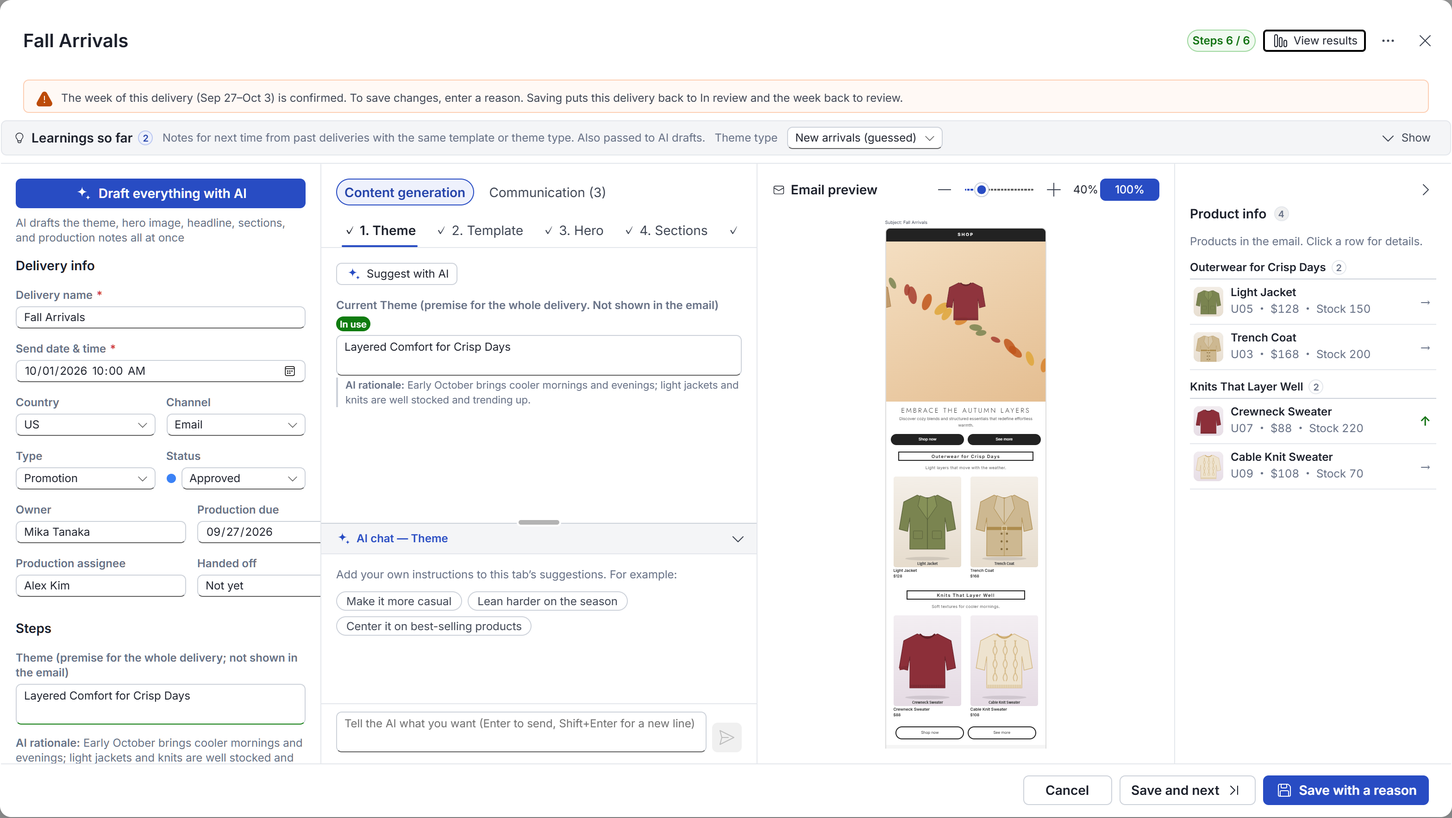
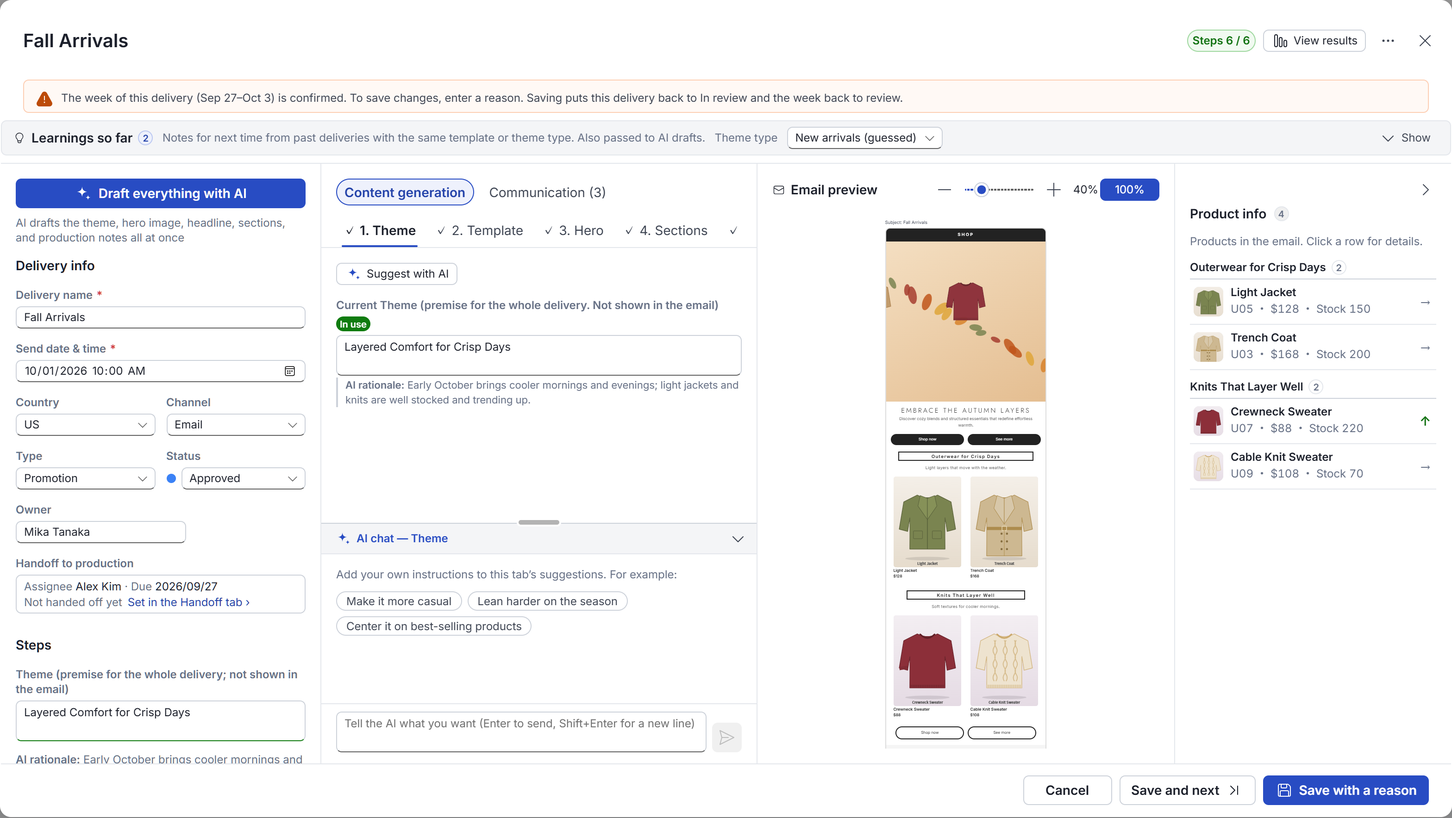
feat: 制作の担当・締め切り・引き継ぎ済みの入力を「引き継ぎ」のタブ 1 か所に(FLOWS の C-3)
- 引き継ぎのタブで、担当者に加えて締め切りも入力する
- 左の配信情報は、担当・締め切り・引き継ぎ済みの要約を表示するだけ。押すと「やり取り → 引き継ぎ」のタブが開く(ContentPane.tabRequest)
- FEATURES・FLOWS・BACKLOG(X17)・台帳を更新し、配信カードと引き継ぎのスクリーンショットを撮り直す

Changed region(s): [[0.0, 0.6844, 0.2188, 0.9333], [0.875, 0.0311, 0.9375, 0.0622], [0.125, 0.6222, 0.1875, 0.6533]]

diff --git a/src/CardDetail.tsx b/src/CardDetail.tsx
@@ -31,7 +31,7 @@ import type { DeliveryCard } from './models/deliveryCards'
 import { DeliveryProductsService } from './data/deliveryProducts'
 import type { Product } from './models/products'
 import type { HeroImage } from './models/heroImages'
-import { ContentPane } from './ContentPane'
+import { ContentPane, type TopTab } from './ContentPane'
 import { Preview } from './Preview'
 import { DEFAULT_PUSH_TEMPLATE, DEFAULT_TEMPLATE, TEMPLATE_VALUES, channelOf, sectionIndexAt, sectionsOf, templateFromValue, type EmailTemplateId, type TemplateChannel } from './templates'
 import { parsePushLink, tapComplete, type PushLink } from './pushLink'
@@ -344,6 +344,28 @@ const useStyles = makeStyles({
   sectionHead: { marginTop: '12px' },
   previewHead: { display: 'flex', alignItems: 'center', columnGap: '6px', flexWrap: 'wrap', minWidth: 0 },
   twoCol: { display: 'grid', gridTemplateColumns: '1fr 1fr', columnGap: '12px', rowGap: '12px' },
+  // 左の「制作への引き継ぎ」(表示だけ。押すと、やり取りの「引き継ぎ」のタブが開く)
+  handoffField: { gridColumn: '1 / -1' },
+  handoffSummary: {
+    display: 'flex',
+    flexWrap: 'wrap',
+    alignItems: 'center',
+    columnGap: '12px',
+    rowGap: '2px',
+    width: '100%',
+    minHeight: '32px',
+    padding: '4px 8px',
+    textAlign: 'left',
+    fontFamily: 'inherit',
+    fontSize: tokens.fontSizeBase200,
+    color: tokens.colorNeutralForeground1,
+    border: `1px solid ${tokens.colorNeutralStroke1}`,
+    borderRadius: tokens.borderRadiusMedium,
+    backgroundColor: tokens.colorNeutralBackground1,
+    cursor: 'pointer',
+    ':hover': { backgroundColor: tokens.colorNeutralBackground1Hover },
+  },
+  handoffLink: { marginLeft: '6px', color: tokens.colorBrandForegroundLink, whiteSpace: 'nowrap' },
   statusRow: { display: 'flex', alignItems: 'center', columnGap: '6px' },
   dot: { width: '10px', height: '10px', borderRadius: '50%', flexShrink: 0 },
   grow: { flexGrow: 1 },
@@ -417,6 +439,8 @@ export function CardDetail({ card, defaults, products, heroes, otherThemes, owne
   const [links, setLinks] = useState<Links>(() => parseLinks(card?.links))
   // リンク先のタブを開いているか・設定の欄で選んでいる場所(プレビューに、番号と枠を重ねる。W12)
   const [linksTab, setLinksTab] = useState(false)
+  // 中央のタブを開く頼み(左の「制作への引き継ぎ」を押すと、やり取りの「引き継ぎ」のタブを開く)
+  const [tabRequest, setTabRequest] = useState<{ tab: TopTab; seq: number } | undefined>(undefined)
   const [linkFocus, setLinkFocus] = useState<string | null>(null)
   const surfaceRef = useRef<HTMLDivElement>(null)
   const [size, setSize] = useState<DialogSize | null>(() => loadPref<DialogSize | null>(SIZE_KEY, null))
@@ -1146,19 +1170,24 @@ export function CardDetail({ card, defaults, products, heroes, otherThemes, owne
                     {owners.map((o) => <option key={o} value={o} />)}
                   </datalist>
                 </Field>
-                <Field label={t('制作の締め切り', 'Production due')}>
-                  <Input size="small" type="date" value={form.productionDue} onChange={(_, d) => set('productionDue')(d.value)} />
-                </Field>
-                {/* 制作の担当者は、中央の「⑥ 制作指示」と同じ値。引き継ぐ操作は、制作指示とリンク先を確かめてから行うよう、中央だけに置く */}
-                <Field label={t('制作の担当者', 'Production assignee')}>
-                  <Input size="small" list="ccp-owners" value={form.productionOwner} onChange={(_, d) => set('productionOwner')(d.value)} />
-                </Field>
-                <Field label={t('制作への引き継ぎ', 'Handed off')}>
-                  <Input
-                    size="small"
-                    readOnly
-                    value={form.handedOffAt ? new Date(form.handedOffAt).toLocaleString(locale(), { month: '2-digit', day: '2-digit', hour: '2-digit', minute: '2-digit' }) : t('まだ', 'Not yet')}
-                  />
+                {/* 制作の担当者・締め切り・引き継ぎ済みは、中央の「やり取り → 引き継ぎ」だけで決める(2 か所で入力しない。FLOWS の C-3)。ここは表示だけで、押すとそのタブが開く */}
+                <Field label={t('制作への引き継ぎ', 'Handoff to production')} className={styles.handoffField}>
+                  <button type="button" className={styles.handoffSummary} onClick={() => setTabRequest((r) => ({ tab: 'handoff', seq: (r?.seq ?? 0) + 1 }))} title={t('引き継ぎのタブで決める', 'Set in the Handoff tab')}>
+                    <span>
+                      <span className={styles.caption}>{t('担当 ', 'Assignee ')}</span>
+                      {form.productionOwner.trim() || <span className={styles.caption}>{t('(未設定)', '(not set)')}</span>}
+                      <span className={styles.caption}>{t(' ・ 締め切り ', ' · Due ')}</span>
+                      {form.productionDue ? form.productionDue.replace(/-/g, '/') : <span className={styles.caption}>{t('(未設定)', '(not set)')}</span>}
+                    </span>
+                    <span>
+                      {form.handedOffAt ? (
+                        <span className={styles.success}>{t('引き継ぎ済み ', 'Handed off ')}{new Date(form.handedOffAt).toLocaleString(locale(), { month: '2-digit', day: '2-digit', hour: '2-digit', minute: '2-digit' })}</span>
+                      ) : (
+                        <span className={styles.caption}>{t('まだ引き継いでいない', 'Not handed off yet')}</span>
+                      )}
+                      <span className={styles.handoffLink}>{t('引き継ぎのタブで決める ›', 'Set in the Handoff tab ›')}</span>
+                    </span>
+                  </button>
                 </Field>
               </div>
               <Text weight="semibold" size={300} className={styles.sectionHead}>{t('工程', 'Steps')}</Text>
@@ -1240,6 +1269,7 @@ export function CardDetail({ card, defaults, products, heroes, otherThemes, owne
                 onLinks={setLinks}
                 handoff={{ productionOwner: form.productionOwner, handedOffAt: form.handedOffAt, productionDue: form.productionDue }}
                 onHandoff={(k, v) => setForm((f) => ({ ...f, [k]: v }))}
+                tabRequest={tabRequest}
                 people={owners}
                 cardId={card?.id}
                 owner={form.owner}

diff --git a/src/ContentPane.tsx b/src/ContentPane.tsx
@@ -56,7 +56,7 @@ import { CardNotesService } from './data/cardNotes'
 import { linkSlots, linksComplete, type Links } from './links'
 
 // handoff・tasks・comments は工程ではない(「工程 n / 6」に数えない)。やり取りの面に置く
-type TopTab = 'theme' | 'template' | 'hero' | 'sections' | 'instructions' | 'links' | 'handoff' | 'tasks' | 'comments' | 'notice' | 'message' | 'timing'
+export type TopTab = 'theme' | 'template' | 'hero' | 'sections' | 'instructions' | 'links' | 'handoff' | 'tasks' | 'comments' | 'notice' | 'message' | 'timing'
 /** 中ペインの 2 つの面。make = コンテンツを作る工程(AI チャットを使う)、talk = 人とのやり取り(引き継ぎ・タスク・コメント。AI チャットは使わない) */
 type Area = 'make' | 'talk'
 const TALK_TABS: TopTab[] = ['handoff', 'tasks', 'comments']
@@ -105,9 +105,11 @@ interface Props {
   onLinkFocus?: (key: string | null) => void
   /** 配信のページの名前(リンク先の既定値と、計測用のパラメーターに使う) */
   campaign: string
-  /** 制作への引き継ぎ(制作指示のタブ) */
+  /** 制作への引き継ぎ(やり取りの「引き継ぎ」のタブ。担当・締め切り・引き継ぎ済みは、ここだけで決める) */
   handoff: { productionOwner: string; handedOffAt: string; productionDue: string }
-  onHandoff: (key: 'productionOwner' | 'handedOffAt', value: string) => void
+  onHandoff: (key: 'productionOwner' | 'handedOffAt' | 'productionDue', value: string) => void
+  /** 外(左の配信情報など)から、タブを開く頼み。seq が変わるたびに開く */
+  tabRequest?: { tab: TopTab; seq: number }
   /** これまでに入れた人の名前(入力の候補) */
   people: string[]
   /** 保存済みの配信カードの ID(新規作成中は undefined) */
@@ -1106,6 +1108,13 @@ export function ContentPane(props: Props) {
     setTab(next)
     setLastTab((prev) => ({ ...prev, [TALK_TABS.includes(next) ? 'talk' : 'make']: next }))
   }
+  // 外からのタブを開く頼み(左の配信情報の「引き継ぎのタブで決める」など)。seq が変わったときだけ開く
+  const { tabRequest } = props
+  useEffect(() => {
+    // eslint-disable-next-line react-hooks/set-state-in-effect
+    if (tabRequest && tabRequest.seq > 0) openTab(tabRequest.tab)
+    // eslint-disable-next-line react-hooks/exhaustive-deps
+  }, [tabRequest?.seq])
   // リンク先のタブを開いている間だけ、プレビューにリンクの場所の番号を出す(タブを離れたら、選んでいた欄も外す)
   const { onLinksTab, onLinkFocus } = props
   useEffect(() => {
@@ -1323,6 +1332,7 @@ export function ContentPane(props: Props) {
           handedOffAt={props.handoff.handedOffAt}
           onHandedOffAt={(v) => props.onHandoff('handedOffAt', v)}
           productionDue={props.handoff.productionDue}
+          onProductionDue={(v) => props.onHandoff('productionDue', v)}
           remaining={pr.remaining}
           people={props.people}
         />

diff --git a/src/HandoffPanel.tsx b/src/HandoffPanel.tsx
@@ -19,8 +19,9 @@ interface Props {
   /** 引き継いだ日時(ISO。空は、まだ引き継いでいない) */
   handedOffAt: string
   onHandedOffAt: (v: string) => void
-  /** 制作の締め切り(YYYY-MM-DD。左の配信情報で決める) */
+  /** 制作の締め切り(YYYY-MM-DD) */
   productionDue: string
+  onProductionDue: (v: string) => void
   /** 終わっていない工程(引き継ぐ前の注意に出す) */
   remaining: string[]
   /** これまでに入れた名前(入力の候補) */
@@ -28,25 +29,20 @@ interface Props {
 }
 
 /**
- * 制作への引き継ぎ。「制作に引き継ぐ」で、引き継いだ日時を残す(保存で確定する)。
+ * 制作への引き継ぎ。制作の担当者・締め切りは、ここだけで決める(左の配信情報は表示だけ。FLOWS の C-3)。
+ * 「制作に引き継ぐ」で、引き継いだ日時を残す(保存で確定する)。
  * 制作担当への実際の通知(メールなど)は、まだ行わない(バックログ P3 の後)。
  */
-export function HandoffPanel({ productionOwner, onProductionOwner, handedOffAt, onHandedOffAt, productionDue, remaining, people }: Props) {
+export function HandoffPanel({ productionOwner, onProductionOwner, handedOffAt, onHandedOffAt, productionDue, onProductionDue, remaining, people }: Props) {
   const styles = useStyles()
   const t = useT()
-  const due = productionDue
-    ? (() => {
-        const [y, m, d] = productionDue.split('-').map(Number)
-        return new Date(y, m - 1, d).toLocaleDateString(locale(), { year: 'numeric', month: '2-digit', day: '2-digit' })
-      })()
-    : ''
 
   return (
     <div className={styles.root}>
       <div>
         <div className={styles.head}>{t('制作への引き継ぎ', 'Handoff to production')}</div>
         <div className={styles.caption}>
-          {t('制作の担当者を決めて「制作に引き継ぐ」を押し、保存します。締め切りは、左の配信情報で決めます。', 'Choose the production assignee, press “Hand off to production”, then save. The due date is set in Delivery info on the left.')}
+          {t('制作の担当者と締め切りを決めて「制作に引き継ぐ」を押し、保存します。左の配信情報には、ここで決めた内容が出ます。', 'Choose the production assignee and due date, press “Hand off to production”, then save. Delivery info on the left shows what you set here.')}
         </div>
       </div>
       <div className={styles.row}>
@@ -57,7 +53,7 @@ export function HandoffPanel({ productionOwner, onProductionOwner, handedOffAt, 
           </datalist>
         </Field>
         <Field label={t('制作の締め切り', 'Production due')} size="small">
-          <Input size="small" readOnly value={due || t('(未設定)', '(not set)')} />
+          <Input size="small" type="date" value={productionDue} onChange={(_, d) => onProductionDue(d.value)} />
         </Field>
       </div>
       {handedOffAt ? (

diff --git a/scripts/feature-reasons.py b/scripts/feature-reasons.py
@@ -77,7 +77,7 @@ F = [
  ('F63','一覧','締め切りの警告(配信日が近いのに未着手の配信に印)','近い配信の作業の漏れを、早めに気づくため','【文書】BACKLOG L4',False),
  ('F64','制作','担当者と、制作の締め切り(一覧・カレンダーにも出す)','誰が、いつまでに作るかを、配信ごとにはっきりさせるため','【文書】BACKLOG P1',False),
  ('F65','制作','リンク先を工程 ⑤ にする。メールは URL と計測用のパラメーター(メイン画像・ボタンごと)。プレビューで、リンク先の場所と設定を見せる。すべての場所に行き先がそろったら完了','制作に正しいリンク先を渡し、設定の漏れを、見た目の上で確かめるため。決め忘れが事故(違うページに飛ぶ)につながるので、工程として数える','【要望】リンク先を分かりやすく、リンク先を独立した工程にしたい',False),
- ('F66','制作','制作への引き継ぎ(制作の担当・期日・引き継ぎ済み)','企画から制作に渡したことを、はっきり残すため','【文書】BACKLOG P3',False),
+ ('F66','制作','制作への引き継ぎ(制作の担当・締め切り・引き継ぎ済み。入力は「引き継ぎ」のタブだけ。左の配信情報は要約の表示で、押すとそのタブが開く)','企画から制作に渡したことを、はっきり残すため。同じ値を 2 か所で入力させないため','【文書】BACKLOG P3、FLOWS C-3',False),
  ('F67','制作','質問と返信(誰からでも、誰にでも。宛先・返信する人を選ぶ)、やり取りから AI がタスクの案を出し、採用したものを管理する','配信ごとのやり取りと、そこから生まれた作業を、漏れなく追うため','【要望】やり取りからタスクを作りたい',False),
  ('F68','週','週の表示(1 週間を縮小プレビューつきで並べる。見方は「商品」「進み具合」)','レビューは週の単位で行うので、1 週間の配信をまとめて見比べるため','【文書】BACKLOG W1(ワイヤーフレーム 08)',False),
  ('F69','週','週の状態(下書き / レビュー中 / 確定)と、「レビューに出す」「週を確定」','週の計画の段階を、全員が同じように分かり、まとめて進めるため','【文書】BACKLOG W2',False),

diff --git a/docs/FEATURE_REASONS.md b/docs/FEATURE_REASONS.md
@@ -89,7 +89,7 @@
 | F63 | 一覧 | 締め切りの警告(配信日が近いのに未着手の配信に印) | 近い配信の作業の漏れを、早めに気づくため | 【文書】BACKLOG L4 | 1-確7 |
 | F64 | 制作 | 担当者と、制作の締め切り(一覧・カレンダーにも出す) | 誰が、いつまでに作るかを、配信ごとにはっきりさせるため | 【文書】BACKLOG P1 | 3-作6, 3-作7 |
 | F65 | 制作 | リンク先を工程 ⑤ にする。メールは URL と計測用のパラメーター(メイン画像・ボタンごと)。プレビューで、リンク先の場所と設定を見せる。すべての場所に行き先がそろったら完了 | 制作に正しいリンク先を渡し、設定の漏れを、見た目の上で確かめるため。決め忘れが事故(違うページに飛ぶ)につながるので、工程として数える | 【要望】リンク先を分かりやすく、リンク先を独立した工程にしたい | 19-作5 |
-| F66 | 制作 | 制作への引き継ぎ(制作の担当・期日・引き継ぎ済み) | 企画から制作に渡したことを、はっきり残すため | 【文書】BACKLOG P3 | 19-作3 |
+| F66 | 制作 | 制作への引き継ぎ(制作の担当・締め切り・引き継ぎ済み。入力は「引き継ぎ」のタブだけ。左の配信情報は要約の表示で、押すとそのタブが開く) | 企画から制作に渡したことを、はっきり残すため。同じ値を 2 か所で入力させないため | 【文書】BACKLOG P3、FLOWS C-3 | 19-作3 |
 | F67 | 制作 | 質問と返信(誰からでも、誰にでも。宛先・返信する人を選ぶ)、やり取りから AI がタスクの案を出し、採用したものを管理する | 配信ごとのやり取りと、そこから生まれた作業を、漏れなく追うため | 【要望】やり取りからタスクを作りたい | 19-確3 |
 | F68 | 週 | 週の表示(1 週間を縮小プレビューつきで並べる。見方は「商品」「進み具合」) | レビューは週の単位で行うので、1 週間の配信をまとめて見比べるため | 【文書】BACKLOG W1(ワイヤーフレーム 08) | 1-作8, 2-作2 |
 | F69 | 週 | 週の状態(下書き / レビュー中 / 確定)と、「レビューに出す」「週を確定」 | 週の計画の段階を、全員が同じように分かり、まとめて進めるため | 【文書】BACKLOG W2 | 2-作1, 2-作3, 2-作6 |
@@ -379,7 +379,7 @@
 |---|---|---|---|
 | 19-作1 | ✅ | AI に、制作指示の案を出してもらう(3 案。方針の切り口つき) | F61 制作指示の案(3 案・切り口つき)・採用 |
 | 19-作2 | ✅ | 案を採用する / 書き換える | F61 制作指示の案(3 案・切り口つき)・採用 |
-| 19-作3 | 🟡 | 制作担当に、引き継いだことを知らせる(担当の割り当て・通知) | F66 制作への引き継ぎ(制作の担当・期日・引き継ぎ済み)<br>F101 絞り込みの「担当」(企画・制作の担当。質問の宛先・質問した人・タスクの担当も含む) |
+| 19-作3 | 🟡 | 制作担当に、引き継いだことを知らせる(担当の割り当て・通知) | F66 制作への引き継ぎ(制作の担当・締め切り・引き継ぎ済み。入力は「引き継ぎ」のタブだけ。左の配信情報は要約の表示で、押すとそのタブが開く)<br>F101 絞り込みの「担当」(企画・制作の担当。質問の宛先・質問した人・タスクの担当も含む) |
 | 19-作5 | ✅ | 各ボタン・画像の、実際のリンク先 URL を、配信ごとに決める | F65 リンク先を工程 ⑤ にする。メールは URL と計測用のパラメーター(メイン画像・ボタンごと)。プレビューで、リンク先の場所と設定を見せる。すべての場所に行き先がそろったら完了 |
 | 19-確1 | ✅ | 制作指示の方針の切り口 | F61 制作指示の案(3 案・切り口つき)・採用 |
 | 19-確2 | ✅ | 制作に必要な商品情報(価格、説明、画像、売上・在庫の状況) | F47 商品の詳細(直近 4 週の販売数・在庫の週数・12 週の売上、週ごとのグラフ、MD の方針・販促計画、基本情報) |

diff --git a/docs/FEATURES.md b/docs/FEATURES.md
@@ -66,7 +66,7 @@
 
 | ペイン | 内容 |
 |---|---|
-| ① 左: 配信情報 | 青い大きなボタン「**すべてAIで下書き**」。配信名、配信日時、国、チャネル、種別、ステータス、担当者、制作の締め切り、制作の担当者。「工程」として、テーマ・ヘッドライン・コピー・制作指示(それぞれ、AI の理由・切り口つき) |
+| ① 左: 配信情報 | 青い大きなボタン「**すべてAIで下書き**」。配信名、配信日時、国、チャネル、種別、ステータス、担当者。制作への引き継ぎ(担当・締め切り・引き継ぎ済み)は表示だけで、押すと「やり取り → 引き継ぎ」のタブが開く。「工程」として、テーマ・ヘッドライン・コピー・制作指示(それぞれ、AI の理由・切り口つき) |
 | ② 中: コンテンツ生成 / やり取り | 上の切り替えで、2 つの面を切り替える。**コンテンツ生成**: 6つの工程のタブ(メール: テーマ / テンプレート / ヒーロー / セクション / リンク先 / 制作指示。アプリ: テーマ / テンプレート / 通知 / メッセージ / リンク先 / 時刻・相手)。下半分に、**AIチャット**。**やり取り**: **引き継ぎ**(質問と返信を含む)・**タスク**・**コメント**のタブ(AIチャットはない)。切り替えには、未対応の質問・タスク・コメントの数が出る。面ごとに、最後に開いたタブを覚える |
 | ③ 右: プレビュー | メール / アプリ(通知とメッセージ)のプレビュー。倍率の変更(スライダー、「全体」ボタン) |
 | ④ 右端: 商品情報 | 掲載商品の参照用の一覧。**既定では開いている**(右上の「>」で、右端の細い帯に折りたためる) |
@@ -217,7 +217,7 @@
 ### 5.13 コメント・質問・リンク先
 - 引き継ぎ・タスク・コメントは、配信カードの中ペインの「**やり取り**」の面にある。リンク先は「**コンテンツ生成**」の面。
 - **コメント**(「コメント」のタブ): 配信全体、または載せた商品を選んで指摘を残す。指摘ごとに返信でやり取りし(スレッド)、決着したら「**対応済みにする**」。対応済みは消さずに、たたんで残す。未対応の数を、タブ・週の表示・確認の一覧に出す。
-- **引き継ぎ**(「引き継ぎ」のタブ): 制作の担当・期日を決め、「制作に知らせる」で引き継ぎ済みにする(アプリからの通知は送らない)。**質問と返信**もここで。質問は、**誰からでも、誰にでも**できる(質問する人・宛先を選ぶ)。返信する人も選べる(既定は宛先の人)。
+- **引き継ぎ**(「引き継ぎ」のタブ): 制作の担当・締め切りを決め(入力はここだけ。左の配信情報は表示)、「制作に知らせる」で引き継ぎ済みにする(アプリからの通知は送らない)。**質問と返信**もここで。質問は、**誰からでも、誰にでも**できる(質問する人・宛先を選ぶ)。返信する人も選べる(既定は宛先の人)。
 - **タスク**: 質問などのやり取りから、AI がタスクの案を出し、採用したものを担当・期日・完了で管理する。未完了の数を、タブ・週の表示・一覧に出す。
 - 絞り込みの「担当」は、企画・制作の担当に加え、未解決の質問の宛先・質問した人、未完了のタスクの担当の配信も出す。
 - **リンク先**(コンテンツ生成の ⑤): メールは、メイン画像・ボタンごとに、実際の URL と計測用のパラメーターを決める。アプリは、開くアプリの画面を決める(5.6.1)。リンク先のタブを開いている間は、プレビューのリンクの場所に番号が出る(未設定は色が変わる)。

diff --git a/docs/FLOWS.md b/docs/FLOWS.md
@@ -164,7 +164,7 @@
 |---|---|---|---|
 | C-1 ✅ | F1・F2 | (2026-10-17 に入れた。X9)配信カードに「保存して次へ」(同じ週の、次の配信を開く)。週の表示で確認の項目を選んでいるときは、その項目に該当する次の配信へ | 段階 3〜5 の移り方が短くなる。いまの「保存」(閉じる)は残す |
 | C-2 ✅ | F3 | (2026-10-17 に入れた。X10)絞り込みに「担当」(企画・制作)を足す。制作担当は、自分に絞って週の表示の「進み具合」を見れば、入り口になる | 部品を 1 つ足すだけ。並びは変えない |
-| C-3 | F4 | 制作の担当・締め切り・引き継ぎ済みの入力を、1 か所にする(左は表示だけ、など) | 入力の場所が 1 つになる |
+| C-3 ✅ | F4 | (2026-10-17 に入れた。X17)入力は「やり取り → 引き継ぎ」のタブだけに。左の配信情報は、担当・締め切り・引き継ぎ済みの要約を表示し、押すとそのタブが開く | 入力の場所が 1 つになった。左の欄の数は減った |
 | C-4 ✅ | F5 | (2026-10-17 に入れた。X15)月のカレンダーの各週の先頭(日曜日)に「週 ›」。押すと、その週の週表示へ移る(結果の面でも) | 新しい近道。いまの移り方は残す |
 | C-5 ✅ | F6 | (2026-10-17 に入れた。X15)計画の「CSV で書き出す」を、結果と同じ「データ ▾」のメニューにした | ツールバーの同じ位置に、同じ形の部品 |
 | C-6 ✅ | F7 | (2026-10-17 に入れた。X16)凡例を色の点だけにし、名前はマウスを重ねる(キーボードで選ぶ)と出す。週の表示では件数を点の横に | 場所が空いた。位置は変えていない |
@@ -211,13 +211,12 @@
 
 | 候補 | 内容 | メモ |
 |---|---|---|
-| C-3 | 制作の担当・締め切り・引き継ぎ済みの入力を 1 か所にする(いまは左の配信情報と「やり取り」の引き継ぎの 2 か所) | 案 A のときにも「残り」として伝えてある |
 | C-7 | 週ごとの振り返りのメモ、結果の面の「前週」の近道 | 機能の追加。BACKLOG の振り返り(6 章)と一緒に |
 | F9 | コンテンツ生成のタブ(6 つ)が、狭い幅で横にスクロールする | 案はまだない |
 | 承認して次へ | 「保存して承認」「差し戻す」は、いまは閉じる。レビューで続けて承認できるようにするか | X9 で「使ってみてから」とした |
 | 案 B | 質問・タスク・コメントを 1 つの時系列の一覧にまとめる(データは同じ表 `card_notes`) | 案 A を使ってみてから判断、とした |
 
-**おすすめの順**: C-4・C-5・C-6 は済み。次は C-3(承認プロセスのセッションが CardDetail を触り終えてから)。C-6 は見た目だけ。C-7・案 B は機能の追加なので、利用者と相談してから。
+**おすすめの順**: C-3〜C-6 は済み。残りは C-7(機能の追加。利用者と相談してから)と F9。C-6 は見た目だけ。C-7・案 B は機能の追加なので、利用者と相談してから。
 
 ### 7.5 進め方の決まり
 

diff --git a/docs/BACKLOG.md b/docs/BACKLOG.md
@@ -147,6 +147,7 @@
 | X14 | ✅ | 週の帯の整理(FLOWS の C-10。利用者の要望 2026-10-17: 状態と作業のボタンが同じ所にあり、意図が分かりにくい。確定の前に直すことだけで 1 行取る)。週の状態は期間の横(`WeekStatusBadge`)、状態ごとの件数は凡例に。帯は作業のボタンだけ。確定の前に直すことは「週を確定」の左の印にたたむ(`src/WeekChecklist.tsx`。選んだ項目の札 `WeekCheckChip` は帯の左) | — | なし |
 | X15 | ✅ | 導線の小さな近道 2 つ(FLOWS の C-4・C-5。2026-10-17)。月のカレンダーの各週の先頭に「週 ›」(その週の週表示へ。`Calendar.onOpenWeek`。結果の面でも)。計画の「CSV で書き出す」を、結果と同じ「データ ▾」のメニューに | — | なし |
 | X16 | ✅ | 凡例を小さくする(FLOWS の C-6。2026-10-17)。ツールバー右端の凡例を、ステータスの色の点だけにし、名前はマウスを重ねる(キーボードで選ぶ)と出す。週の表示では、その週の件数を点の横に出す | — | なし |
+| X17 | ✅ | 制作の担当・締め切り・引き継ぎ済みの入力を 1 か所に(FLOWS の C-3。2026-10-17)。入力は「やり取り → 引き継ぎ」のタブだけ(締め切りもここで決める)。左の配信情報は要約の表示だけで、押すとそのタブが開く(`ContentPane.tabRequest`) | — | なし |
 
 (2026-10-12: プレビューは、配信カードのチャネルに合わせて 1 種類だけにした(メールとプッシュの切り替えをやめた)。X6 の前段)
 
